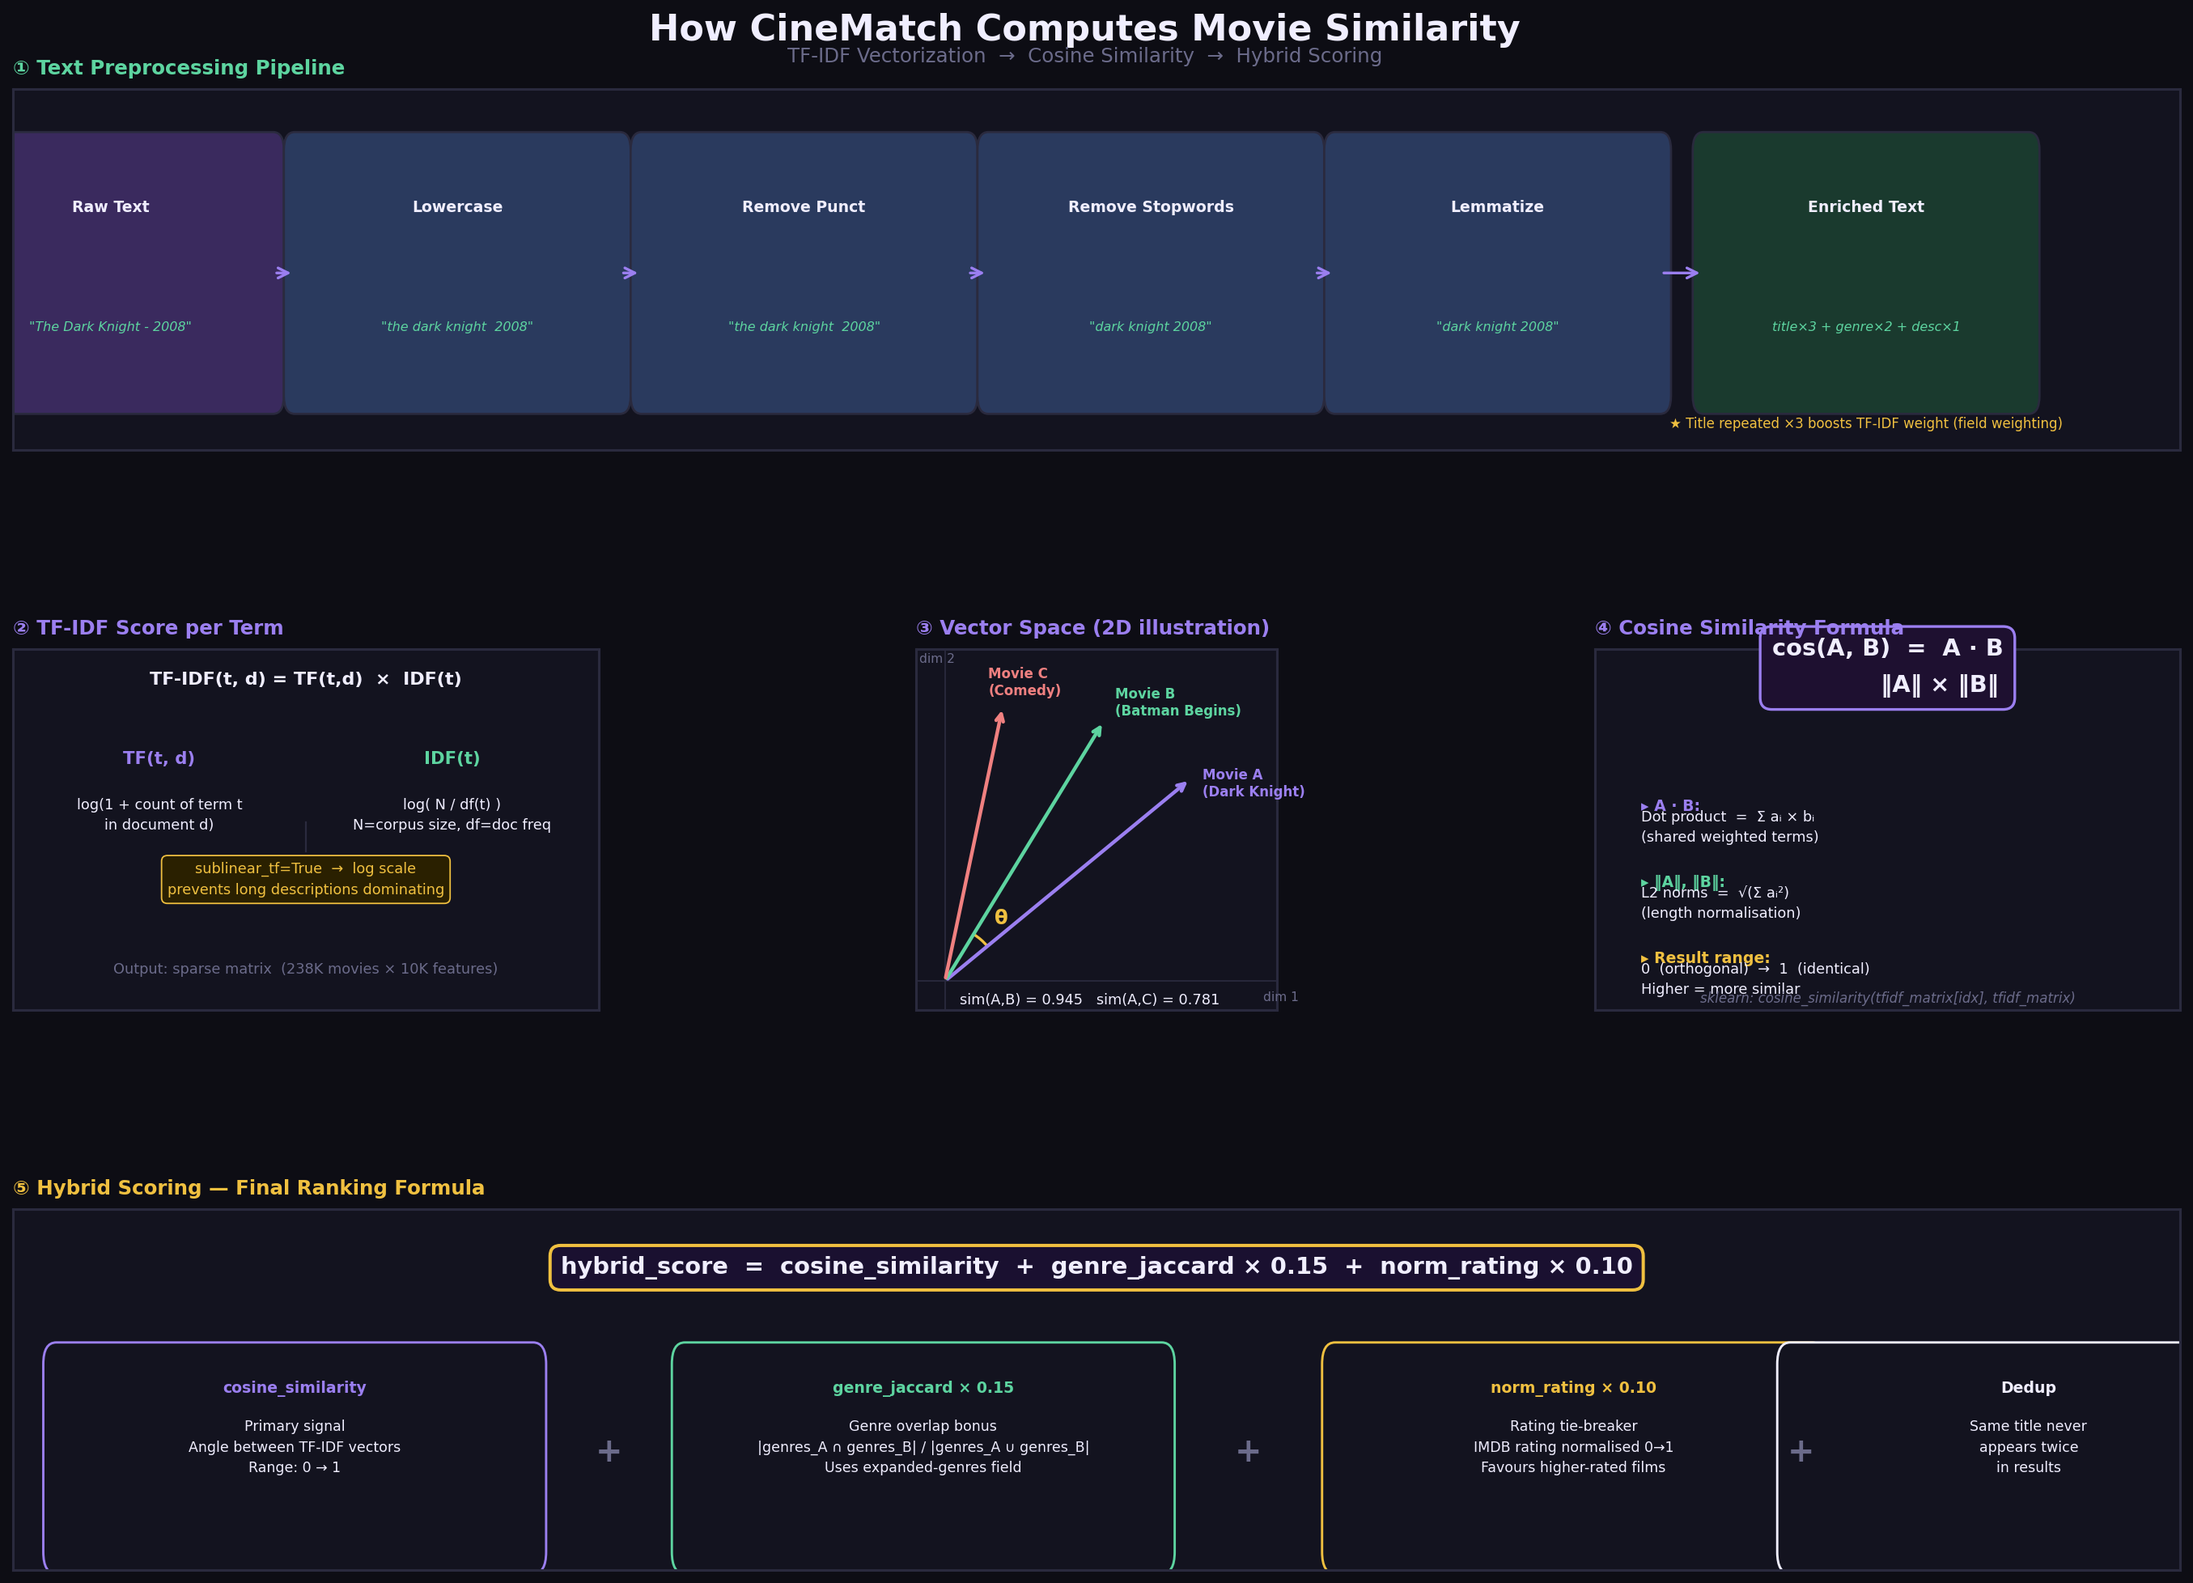
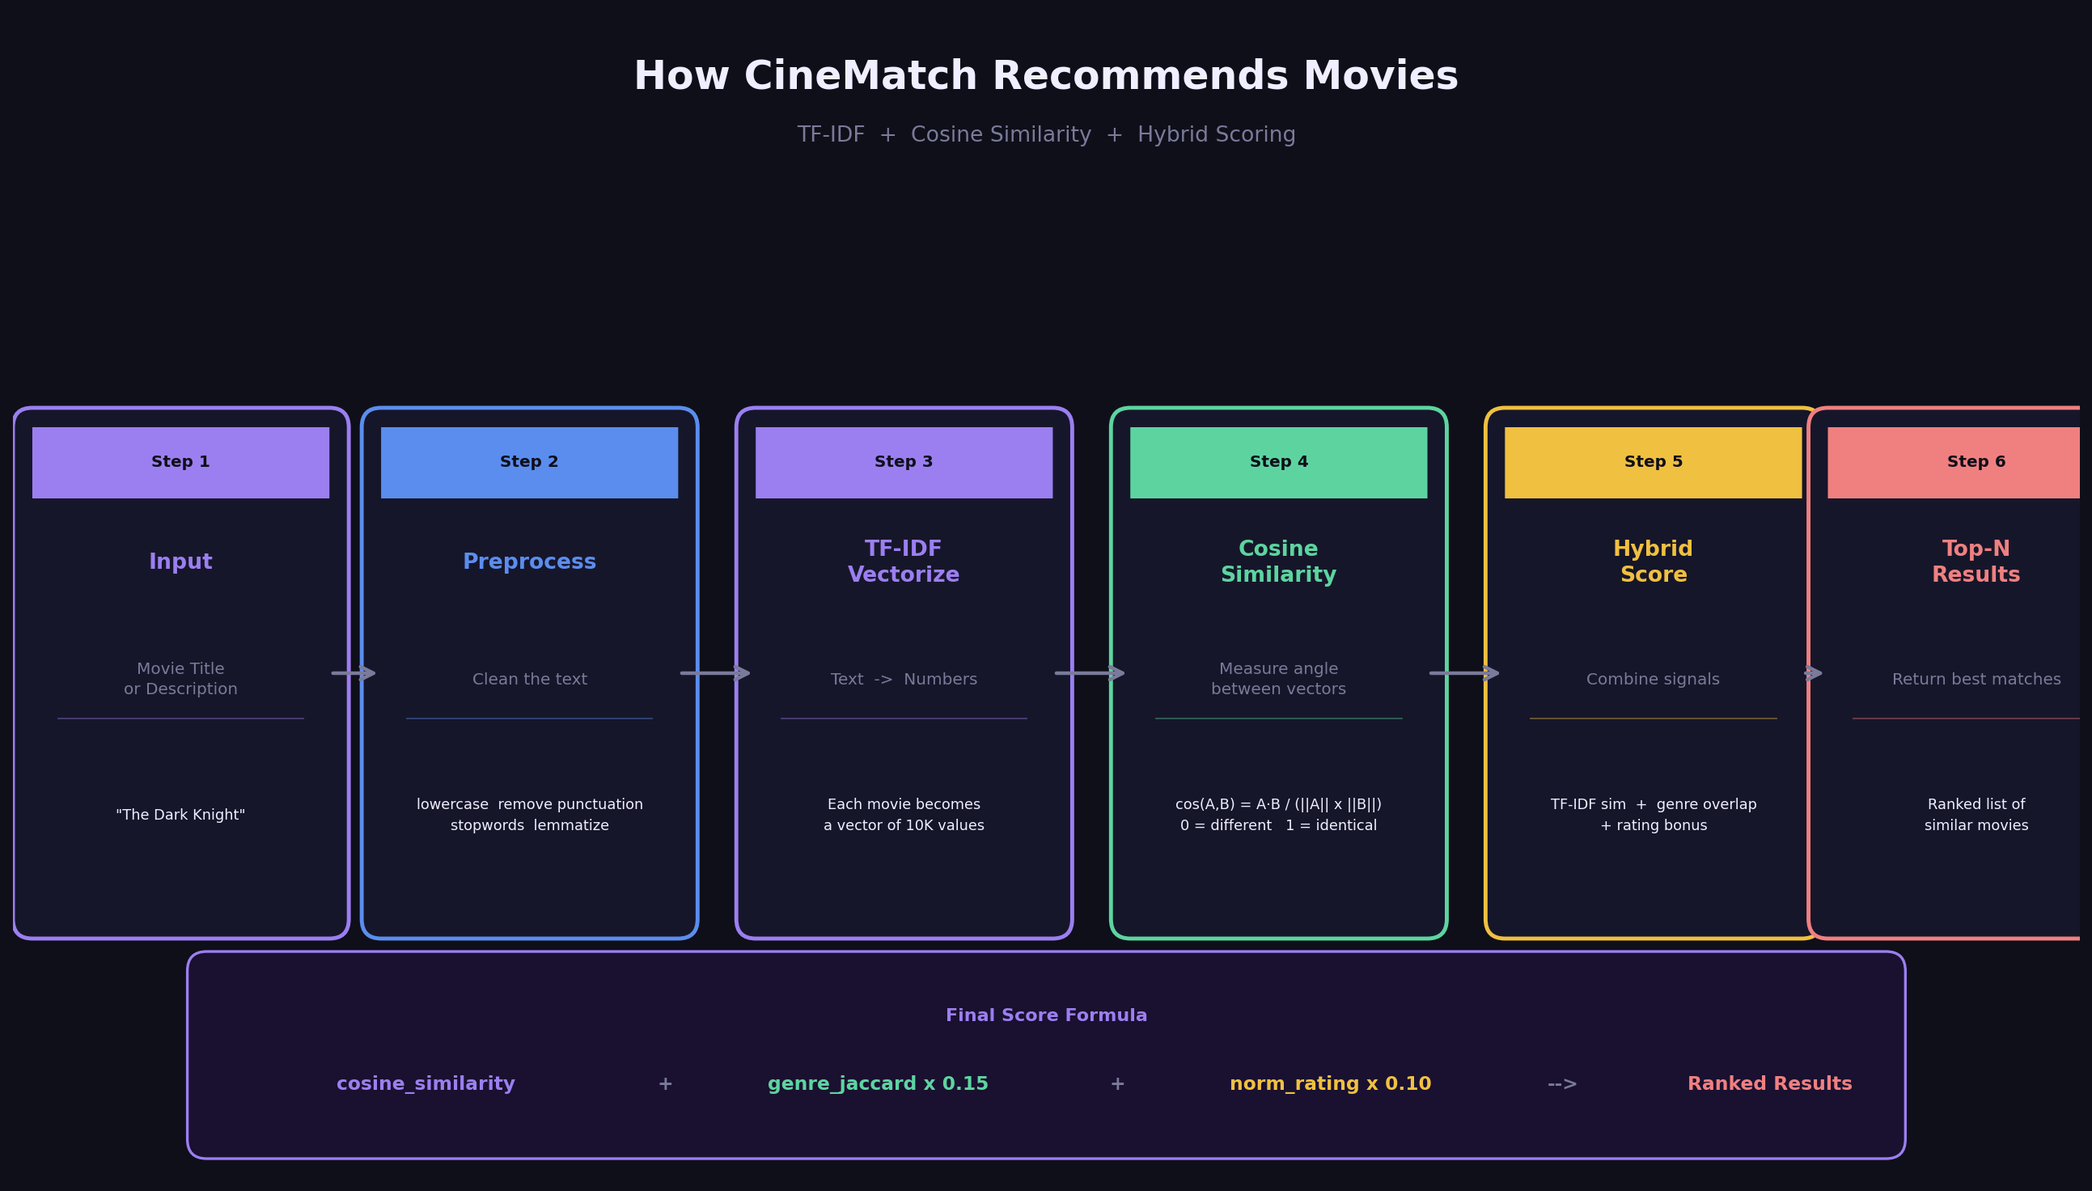
Replace complex diagram with simple step-by-step flow

diff --git a/generate_diagram.py b/generate_diagram.py
@@ -5,227 +5,141 @@ Run: python generate_diagram.py
 import numpy as np
 import matplotlib.pyplot as plt
 import matplotlib.patches as mpatches
-import matplotlib.patheffects as pe
-from matplotlib.patches import FancyArrowPatch, FancyBboxPatch
-from matplotlib.gridspec import GridSpec
+from matplotlib.patches import FancyBboxPatch, FancyArrowPatch
 
 plt.rcParams['font.family'] = 'DejaVu Sans'
 
-FIG_BG   = '#0d0d14'
-CARD_BG  = '#13131f'
-BORDER   = '#2a2a3e'
-PURPLE   = '#9b7ff0'
-GREEN    = '#5dd4a0'
-GOLD     = '#f0c040'
-WHITE    = '#f0eeff'
-MUTED    = '#6b6b8a'
-RED      = '#f08080'
+FIG_BG = '#0f0f1a'
+WHITE  = '#f0eeff'
+MUTED  = '#7a7a9a'
+PURPLE = '#9b7ff0'
+GREEN  = '#5dd4a0'
+GOLD   = '#f0c040'
+DARK   = '#1a1a2e'
+CARD   = '#16162a'
 
-fig = plt.figure(figsize=(18, 13), facecolor=FIG_BG)
-fig.text(0.5, 0.965, 'How CineMatch Computes Movie Similarity',
-         ha='center', va='top', fontsize=20, fontweight='bold', color=WHITE)
-fig.text(0.5, 0.945, 'TF-IDF Vectorization  →  Cosine Similarity  →  Hybrid Scoring',
-         ha='center', va='top', fontsize=11, color=MUTED)
+fig, ax = plt.subplots(figsize=(16, 9), facecolor=FIG_BG)
+ax.set_facecolor(FIG_BG)
+ax.set_xlim(0, 16)
+ax.set_ylim(0, 9)
+ax.axis('off')
 
-gs = GridSpec(3, 3, figure=fig,
-              left=0.04, right=0.97, top=0.92, bottom=0.04,
-              hspace=0.55, wspace=0.35)
+# ── Title ─────────────────────────────────────────────────────────────────────
+ax.text(8, 8.5, 'How CineMatch Recommends Movies',
+        ha='center', va='center', fontsize=22, fontweight='bold', color=WHITE)
+ax.text(8, 8.05, 'TF-IDF  +  Cosine Similarity  +  Hybrid Scoring',
+        ha='center', va='center', fontsize=12, color=MUTED)
 
-
-# ── helpers ──────────────────────────────────────────────────────────────────
-def card(ax, title, title_color=PURPLE):
-    ax.set_facecolor(CARD_BG)
-    for spine in ax.spines.values():
-        spine.set_edgecolor(BORDER)
-        spine.set_linewidth(1.4)
-    ax.set_xticks([]); ax.set_yticks([])
-    ax.set_title(title, color=title_color, fontsize=11,
-                 fontweight='bold', pad=8, loc='left')
-
-def arrow(ax, x0, y0, x1, y1, color=PURPLE, lw=1.5):
-    ax.annotate('', xy=(x1, y1), xytext=(x0, y0),
-                arrowprops=dict(arrowstyle='->', color=color,
-                                lw=lw, mutation_scale=14))
-
-
-# ══════════════════════════════════════════════════════════════════════════════
-# PANEL 1 — Preprocessing pipeline
-# ══════════════════════════════════════════════════════════════════════════════
-ax1 = fig.add_subplot(gs[0, :])
-card(ax1, '① Text Preprocessing Pipeline', GREEN)
-ax1.set_xlim(0, 10); ax1.set_ylim(0, 1)
-
+# ── Step definitions ──────────────────────────────────────────────────────────
 steps = [
-    ('Raw Text',         '"The Dark Knight - 2008"',         0.45, '#3a2a5e'),
-    ('Lowercase',        '"the dark knight  2008"',           2.05, '#2a3a5e'),
-    ('Remove Punct',     '"the dark knight  2008"',           3.65, '#2a3a5e'),
-    ('Remove Stopwords', '"dark knight 2008"',                5.25, '#2a3a5e'),
-    ('Lemmatize',        '"dark knight 2008"',                6.85, '#2a3a5e'),
-    ('Enriched Text',    'title×3 + genre×2 + desc×1',       8.55, '#1a3a2e'),
+    (1.3,  PURPLE, '1', 'Input',
+     'Movie Title\nor Description',
+     '"The Dark Knight"'),
+
+    (4.0,  '#5b8dee', '2', 'Preprocess',
+     'Clean the text',
+     'lowercase  remove punctuation\nstopwords  lemmatize'),
+
+    (6.9,  PURPLE, '3', 'TF-IDF\nVectorize',
+     'Text  ->  Numbers',
+     'Each movie becomes\na vector of 10K values'),
+
+    (9.8,  GREEN,  '4', 'Cosine\nSimilarity',
+     'Measure angle\nbetween vectors',
+     'cos(A,B) = A·B / (||A|| x ||B||)\n0 = different   1 = identical'),
+
+    (12.7, GOLD,   '5', 'Hybrid\nScore',
+     'Combine signals',
+     'TF-IDF sim  +  genre overlap\n+ rating bonus'),
+
+    (15.2, '#f08080', '6', 'Top-N\nResults',
+     'Return best matches',
+     'Ranked list of\nsimilar movies'),
 ]
 
-for label, example, x, bg in steps:
-    box = FancyBboxPatch((x - 0.75, 0.15), 1.5, 0.68,
-                         boxstyle='round,pad=0.05',
-                         facecolor=bg, edgecolor=BORDER, linewidth=1.2)
-    ax1.add_patch(box)
-    ax1.text(x, 0.67, label,   ha='center', va='center',
-             fontsize=8.5, fontweight='bold', color=WHITE)
-    ax1.text(x, 0.34, example, ha='center', va='center',
-             fontsize=7.2, color=GREEN, style='italic')
+BOX_W, BOX_H = 2.3, 3.8
+BOX_Y = 2.0
 
+for x, color, num, title, subtitle, detail in steps:
+    # card
+    box = FancyBboxPatch((x - BOX_W/2, BOX_Y), BOX_W, BOX_H,
+                         boxstyle='round,pad=0.15',
+                         facecolor=CARD, edgecolor=color,
+                         linewidth=2.2, zorder=2)
+    ax.add_patch(box)
+
+    # coloured top bar
+    bar = FancyBboxPatch((x - BOX_W/2, BOX_Y + BOX_H - 0.55), BOX_W, 0.55,
+                         boxstyle='round,pad=0.0',
+                         facecolor=color, edgecolor='none', zorder=3)
+    ax.add_patch(bar)
+
+    # step number in bar
+    ax.text(x, BOX_Y + BOX_H - 0.27, f'Step {num}',
+            ha='center', va='center', fontsize=9,
+            fontweight='bold', color='#0f0f1a', zorder=4)
+
+    # title
+    ax.text(x, BOX_Y + BOX_H - 1.05, title,
+            ha='center', va='center', fontsize=12,
+            fontweight='bold', color=color, zorder=4,
+            linespacing=1.3)
+
+    # subtitle
+    ax.text(x, BOX_Y + 1.85, subtitle,
+            ha='center', va='center', fontsize=9,
+            color=MUTED, zorder=4, linespacing=1.4)
+
+    # divider
+    ax.plot([x - BOX_W/2 + 0.2, x + BOX_W/2 - 0.2],
+            [BOX_Y + 1.55, BOX_Y + 1.55],
+            color=color, lw=0.8, alpha=0.4, zorder=4)
+
+    # detail
+    ax.text(x, BOX_Y + 0.8, detail,
+            ha='center', va='center', fontsize=8,
+            color=WHITE, zorder=4, linespacing=1.55)
+
+# ── Arrows between cards ──────────────────────────────────────────────────────
 for i in range(len(steps) - 1):
-    x0 = steps[i][2] + 0.75
-    x1 = steps[i+1][2] - 0.75
-    arrow(ax1, x0, 0.49, x1, 0.49, color=PURPLE)
+    x0 = steps[i][0]   + BOX_W/2
+    x1 = steps[i+1][0] - BOX_W/2
+    xm = (x0 + x1) / 2
+    ym = BOX_Y + BOX_H / 2
 
-ax1.text(8.55, 0.06, '★ Title repeated ×3 boosts TF-IDF weight (field weighting)',
-         ha='center', fontsize=7.5, color=GOLD)
+    ax.annotate('',
+                xy=(x1, ym), xytext=(x0, ym),
+                arrowprops=dict(
+                    arrowstyle='->', color=MUTED,
+                    lw=2, mutation_scale=18),
+                zorder=5)
 
+# ── Formula highlight at bottom ───────────────────────────────────────────────
+formula_box = FancyBboxPatch((1.5, 0.3), 13, 1.3,
+                              boxstyle='round,pad=0.15',
+                              facecolor='#1a1030', edgecolor=PURPLE,
+                              linewidth=1.5, zorder=2)
+ax.add_patch(formula_box)
 
-# ══════════════════════════════════════════════════════════════════════════════
-# PANEL 2 — TF-IDF concept
-# ══════════════════════════════════════════════════════════════════════════════
-ax2 = fig.add_subplot(gs[1, 0])
-card(ax2, '② TF-IDF Score per Term', PURPLE)
-ax2.set_xlim(0, 1); ax2.set_ylim(0, 1)
+ax.text(8, 1.25, 'Final Score Formula',
+        ha='center', va='center', fontsize=10,
+        fontweight='bold', color=PURPLE, zorder=3)
 
-ax2.text(0.5, 0.90, 'TF-IDF(t, d) = TF(t,d)  ×  IDF(t)',
-         ha='center', fontsize=10, fontweight='bold', color=WHITE)
-
-sections = [
-    (0.25, 0.68, 'TF(t, d)', 'log(1 + count of term t\nin document d)', PURPLE),
-    (0.75, 0.68, 'IDF(t)',   'log( N / df(t) )\nN=corpus size, df=doc freq', GREEN),
+parts = [
+    (3.2,  PURPLE, 'cosine_similarity'),
+    (5.05, MUTED,  '+'),
+    (6.7,  GREEN,  'genre_jaccard x 0.15'),
+    (8.55, MUTED,  '+'),
+    (10.2, GOLD,   'norm_rating x 0.10'),
+    (12.0, MUTED,  '-->'),
+    (13.6, '#f08080', 'Ranked Results'),
 ]
-for x, y, title, body, col in sections:
-    ax2.text(x, y, title, ha='center', fontsize=9.5,
-             fontweight='bold', color=col)
-    ax2.text(x, y - 0.18, body, ha='center', fontsize=8,
-             color=WHITE, linespacing=1.5)
+for x, col, txt in parts:
+    ax.text(x, 0.72, txt,
+            ha='center', va='center', fontsize=10.5,
+            fontweight='bold', color=col, zorder=3)
 
-ax2.plot([0.5, 0.5], [0.44, 0.52], color=BORDER, lw=1)
-
-ax2.text(0.5, 0.32, 'sublinear_tf=True  →  log scale\nprevents long descriptions dominating',
-         ha='center', fontsize=8, color=GOLD, linespacing=1.6,
-         bbox=dict(boxstyle='round,pad=0.4', facecolor='#2a2000', edgecolor=GOLD, lw=0.8))
-
-ax2.text(0.5, 0.10, 'Output: sparse matrix  (238K movies × 10K features)',
-         ha='center', fontsize=8, color=MUTED)
-
-
-# ══════════════════════════════════════════════════════════════════════════════
-# PANEL 3 — Vector space + angle diagram
-# ══════════════════════════════════════════════════════════════════════════════
-ax3 = fig.add_subplot(gs[1, 1])
-card(ax3, '③ Vector Space (2D illustration)', PURPLE)
-ax3.set_xlim(-0.1, 1.15); ax3.set_ylim(-0.1, 1.15)
-ax3.set_aspect('equal')
-
-ax3.axhline(0, color=BORDER, lw=0.8)
-ax3.axvline(0, color=BORDER, lw=0.8)
-ax3.text(1.10, -0.07, 'dim 1', fontsize=7, color=MUTED)
-ax3.text(-0.09, 1.10, 'dim 2', fontsize=7, color=MUTED)
-
-vA = np.array([0.85, 0.70])
-vB = np.array([0.55, 0.90])
-vC = np.array([0.20, 0.95])
-
-for v, col, lbl, off in [(vA, PURPLE, 'Movie A\n(Dark Knight)', (0.04, -0.06)),
-                          (vB, GREEN,  'Movie B\n(Batman Begins)', (0.04, 0.02)),
-                          (vC, RED,    'Movie C\n(Comedy)', (-0.05, 0.04))]:
-    ax3.annotate('', xy=v, xytext=(0, 0),
-                 arrowprops=dict(arrowstyle='->', color=col, lw=2))
-    ax3.text(v[0]+off[0], v[1]+off[1], lbl,
-             fontsize=7.5, color=col, fontweight='bold')
-
-theta_A = np.degrees(np.arctan2(vA[1], vA[0]))
-theta_B = np.degrees(np.arctan2(vB[1], vB[0]))
-arc = mpatches.Arc((0,0), 0.38, 0.38,
-                   theta1=theta_A, theta2=theta_B,
-                   color=GOLD, lw=1.5)
-ax3.add_patch(arc)
-mid = np.radians((theta_A + theta_B) / 2)
-ax3.text(0.26*np.cos(mid), 0.26*np.sin(mid), 'θ',
-         fontsize=11, color=GOLD, fontweight='bold')
-
-cos_AB = np.dot(vA, vB) / (np.linalg.norm(vA) * np.linalg.norm(vB))
-cos_AC = np.dot(vA, vC) / (np.linalg.norm(vA) * np.linalg.norm(vC))
-ax3.text(0.5, -0.08,
-         f'sim(A,B) = {cos_AB:.3f}   sim(A,C) = {cos_AC:.3f}',
-         ha='center', fontsize=8, color=WHITE)
-
-
-# ══════════════════════════════════════════════════════════════════════════════
-# PANEL 4 — Cosine similarity formula
-# ══════════════════════════════════════════════════════════════════════════════
-ax4 = fig.add_subplot(gs[1, 2])
-card(ax4, '④ Cosine Similarity Formula', PURPLE)
-ax4.set_xlim(0, 1); ax4.set_ylim(0, 1)
-
-ax4.text(0.5, 0.88,
-         'cos(A, B)  =  A · B\n             ‖A‖ × ‖B‖',
-         ha='center', fontsize=13, fontweight='bold', color=WHITE,
-         linespacing=1.8,
-         bbox=dict(boxstyle='round,pad=0.5', facecolor='#1e1030',
-                   edgecolor=PURPLE, lw=1.5))
-
-props = [
-    ('A · B', 'Dot product  =  Σ aᵢ × bᵢ\n(shared weighted terms)', PURPLE),
-    ('‖A‖, ‖B‖', 'L2 norms  =  √(Σ aᵢ²)\n(length normalisation)', GREEN),
-    ('Result range', '0  (orthogonal)  →  1  (identical)\nHigher = more similar', GOLD),
-]
-y = 0.55
-for title, desc, col in props:
-    ax4.text(0.08, y, f'▸ {title}:', fontsize=8.5,
-             fontweight='bold', color=col)
-    ax4.text(0.08, y - 0.085, desc, fontsize=8,
-             color=WHITE, linespacing=1.5)
-    y -= 0.21
-
-ax4.text(0.5, 0.02, 'sklearn: cosine_similarity(tfidf_matrix[idx], tfidf_matrix)',
-         ha='center', fontsize=7.5, color=MUTED, style='italic')
-
-
-# ══════════════════════════════════════════════════════════════════════════════
-# PANEL 5 — Hybrid scoring formula (full width)
-# ══════════════════════════════════════════════════════════════════════════════
-ax5 = fig.add_subplot(gs[2, :])
-card(ax5, '⑤ Hybrid Scoring — Final Ranking Formula', GOLD)
-ax5.set_xlim(0, 10); ax5.set_ylim(0, 1)
-
-ax5.text(5.0, 0.82,
-         'hybrid_score  =  cosine_similarity  +  genre_jaccard × 0.15  +  norm_rating × 0.10',
-         ha='center', fontsize=13, fontweight='bold', color=WHITE,
-         bbox=dict(boxstyle='round,pad=0.45', facecolor='#1a1030',
-                   edgecolor=GOLD, lw=1.8))
-
-components = [
-    (1.3,  PURPLE, 'cosine_similarity',
-     'Primary signal\nAngle between TF-IDF vectors\nRange: 0 → 1'),
-    (4.2,  GREEN,  'genre_jaccard × 0.15',
-     'Genre overlap bonus\n|genres_A ∩ genres_B| / |genres_A ∪ genres_B|\nUses expanded-genres field'),
-    (7.2,  GOLD,   'norm_rating × 0.10',
-     'Rating tie-breaker\nIMDB rating normalised 0→1\nFavours higher-rated films'),
-    (9.3,  WHITE,  'Dedup',
-     'Same title never\nappears twice\nin results'),
-]
-
-for x, col, title, desc in components:
-    box = FancyBboxPatch((x - 1.1, 0.05), 2.2, 0.52,
-                         boxstyle='round,pad=0.06',
-                         facecolor='#13131f', edgecolor=col, linewidth=1.3)
-    ax5.add_patch(box)
-    ax5.text(x, 0.49, title, ha='center', fontsize=8.5,
-             fontweight='bold', color=col)
-    ax5.text(x, 0.27, desc,  ha='center', fontsize=7.8,
-             color=WHITE, linespacing=1.55)
-
-for i in range(len(components) - 1):
-    x0 = components[i][0] + 1.1
-    x1 = components[i+1][0] - 1.1
-    ax5.text((x0+x1)/2, 0.30, '+', ha='center',
-             fontsize=18, color=MUTED, fontweight='bold')
-
+plt.tight_layout(pad=0)
 plt.savefig('screenshots/cosine_similarity_explained.png',
             dpi=160, bbox_inches='tight', facecolor=FIG_BG)
 print("Saved: screenshots/cosine_similarity_explained.png")
